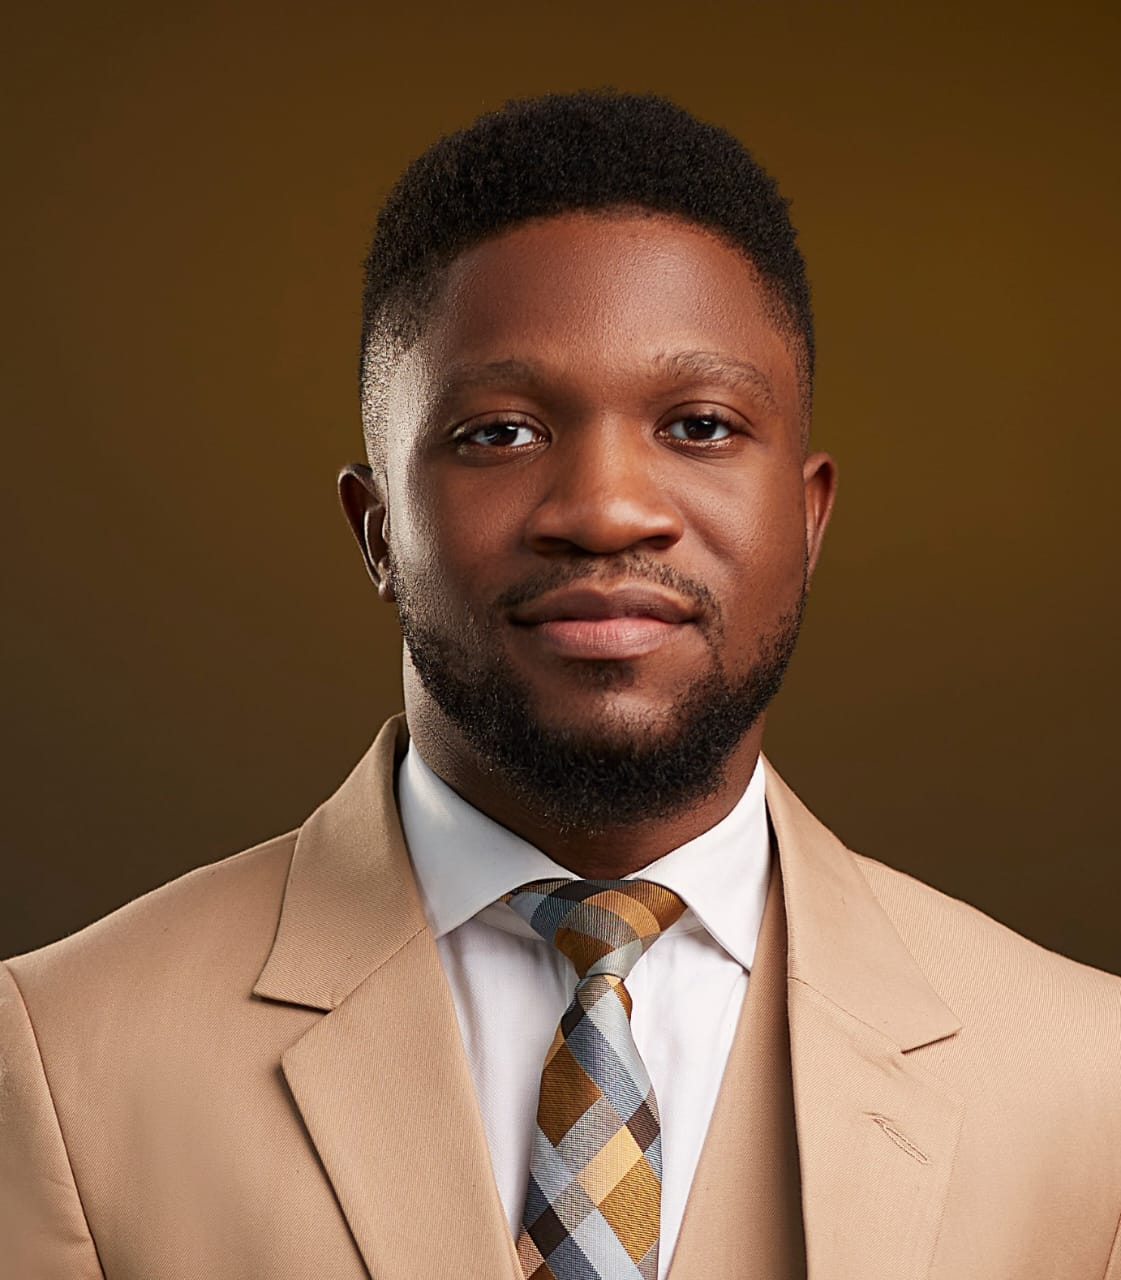
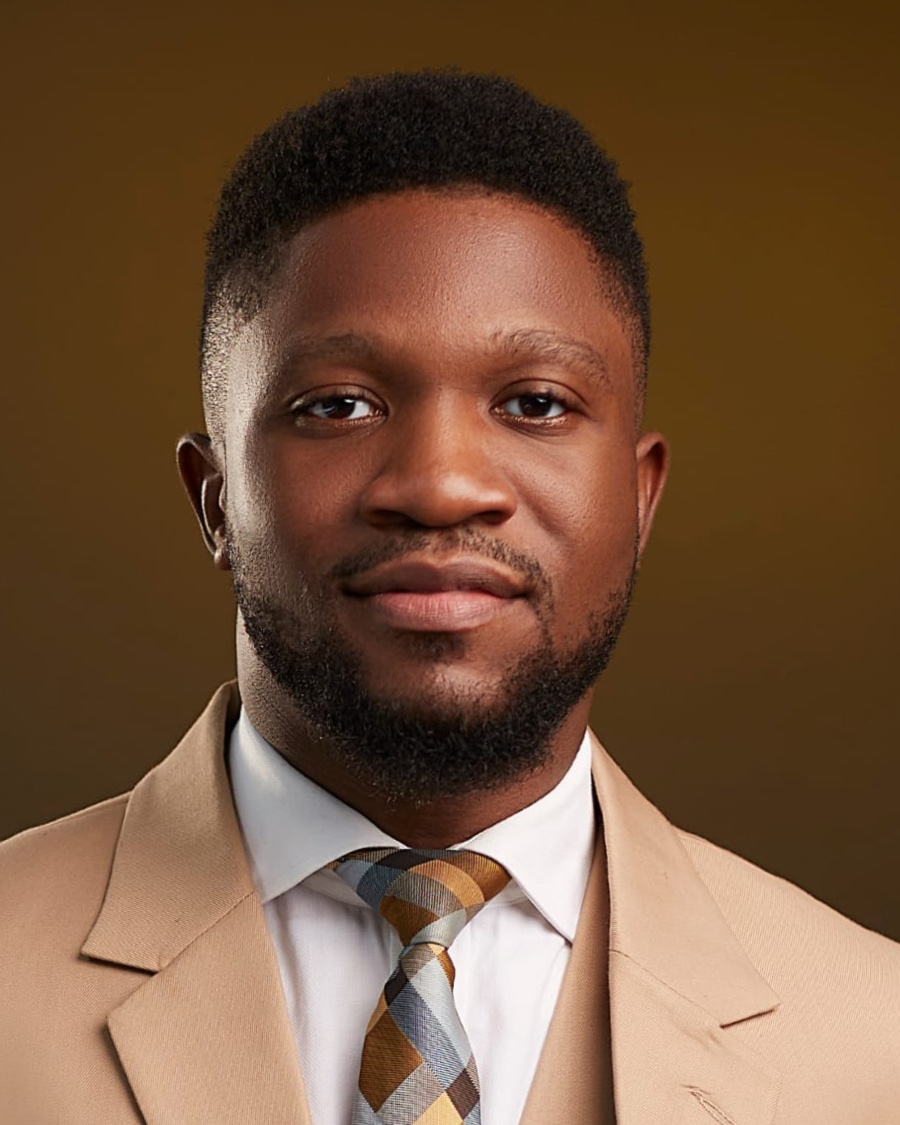
update

diff --git a/src/index.css b/src/index.css
@@ -1047,6 +1047,9 @@ textarea:focus-visible {
     width: 100%;
     height: 100%;
     object-fit: cover;
+    /* Portraits are 4:5 with the head high in the frame; bias the circular
+       crop upward so the top of the head is never cut off. */
+    object-position: 50% 10%;
 }
 
 .bio-modal-header h3 {
